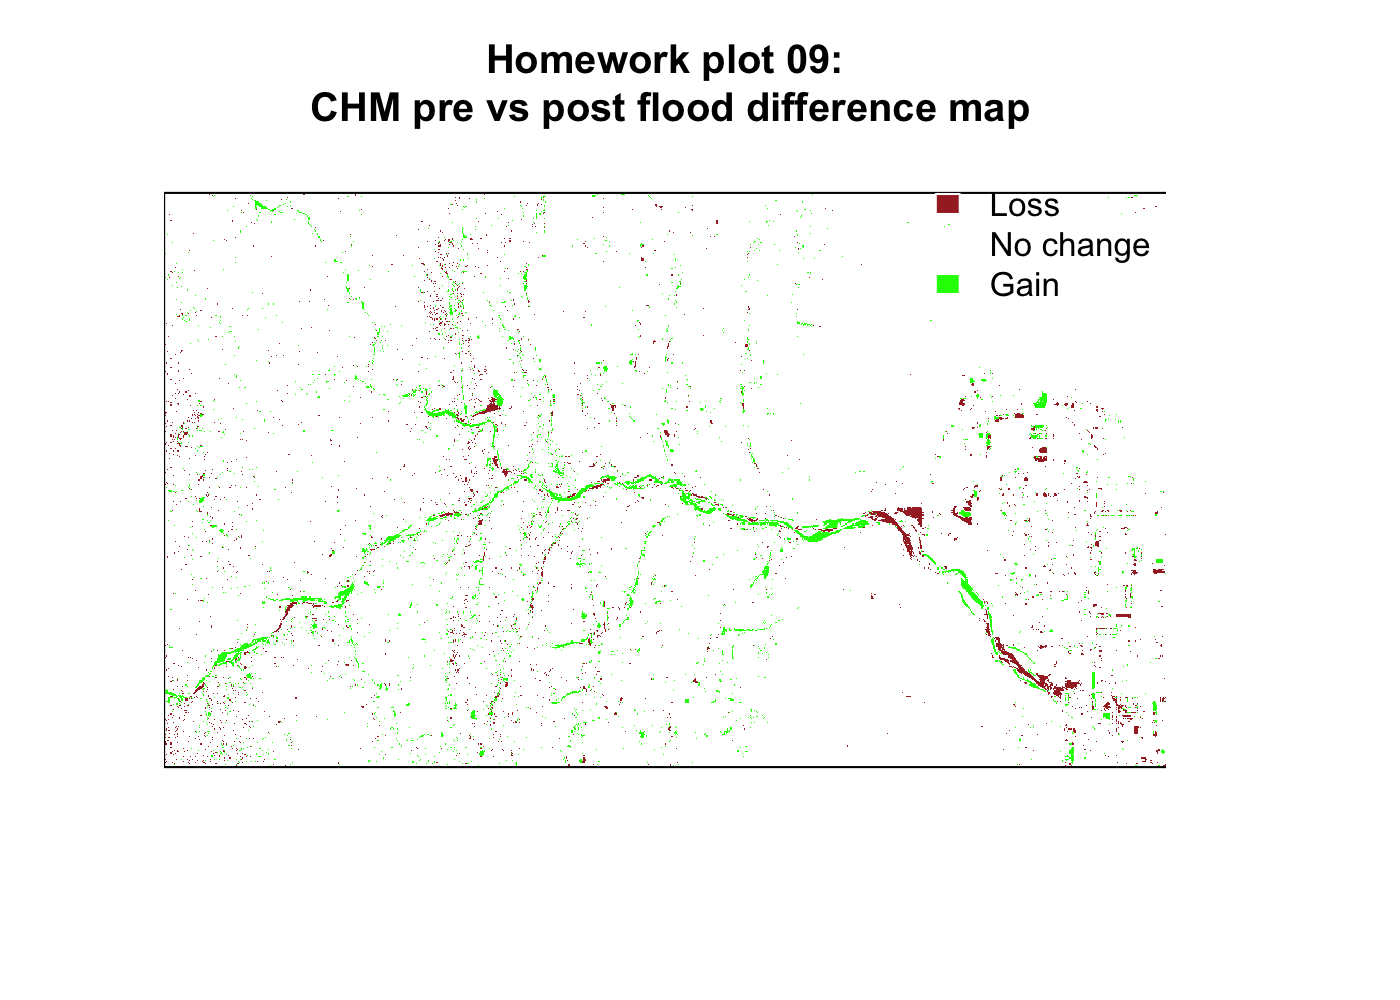
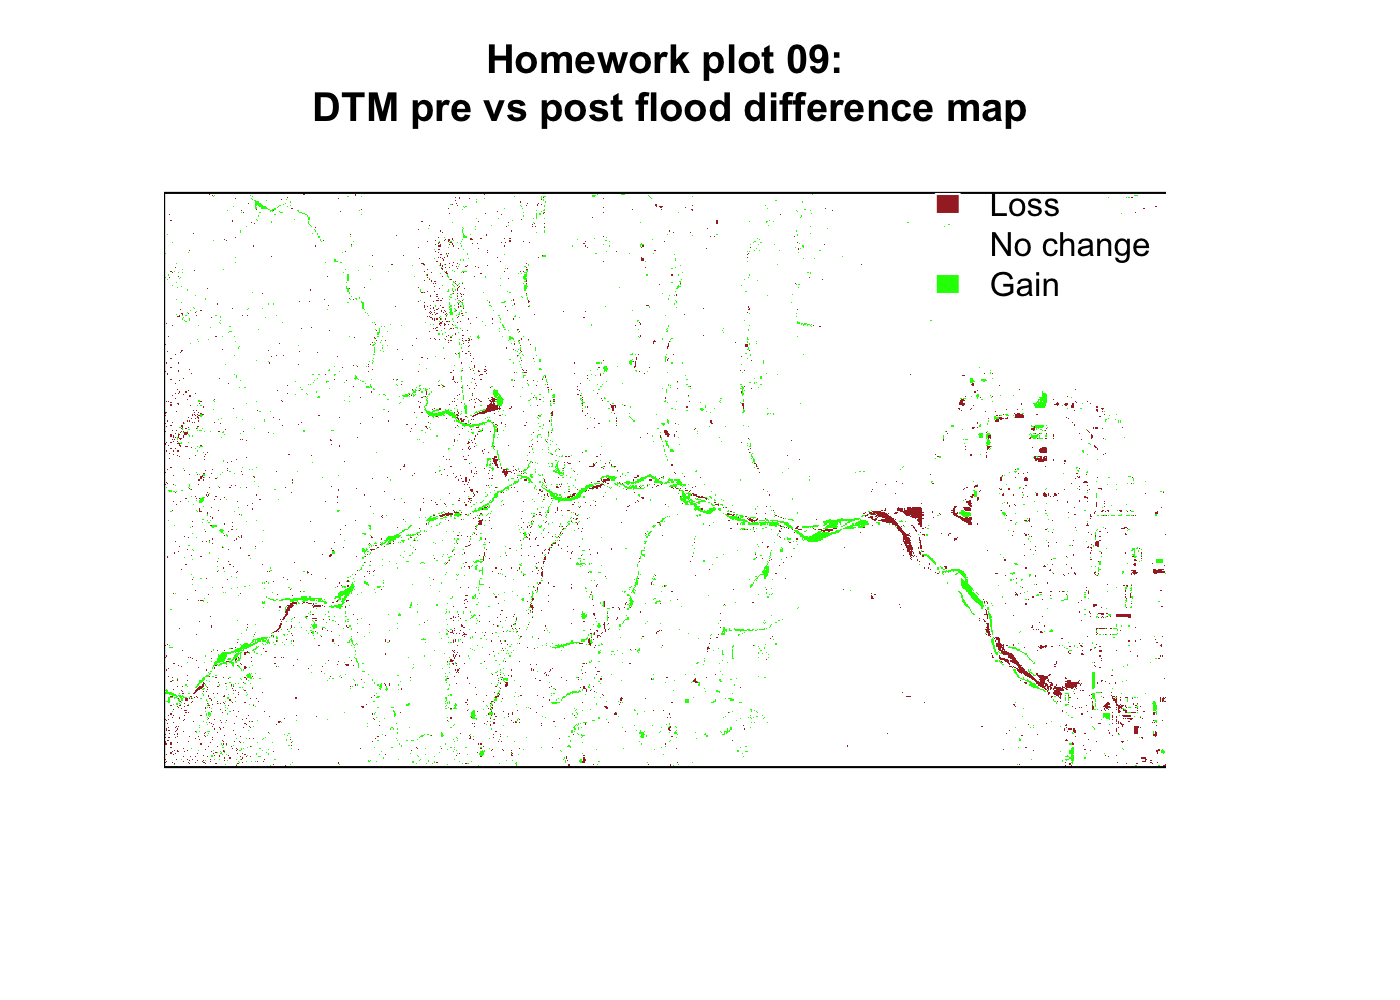
week 3 typo fixes

Changed region(s): [[0.215, 0.093, 0.7371, 0.124]]

diff --git a/_posts/courses/earth-analytics/00-course-overview/sessions/2017-01-01-week-03.md b/_posts/courses/earth-analytics/00-course-overview/sessions/2017-01-01-week-03.md
@@ -117,11 +117,11 @@ Use the `data/week_02/discharge/06730200-discharge-daily-1986-2013.csv` file to 
 * **PLOT 7: Classified pre/post CHM difference raster** Use the difference raster that you created above and the histogram as a guide to classify your difference canopy height model. Use values that make
 sense after reviewing the histogram.
 
-* **PLOT 8: pre/post DTM difference raster histogram** Create a **cropped** raster map that shows positive and negative change in the canopy height model before and after the flood. To do this:
-   * Subtract the post-flood CHM from the pre-flood CHM (**pre_flood_DTM - post_flood_DTM**).
+* **PLOT 8: pre/post DTM difference raster histogram** Create a **cropped** raster map that shows positive and negative change in the digital terrain model before and after the flood. To do this:
+   * Subtract the post-flood DTM from the pre-flood DTM (**pre_flood_DTM - post_flood_DTM**).
    * Crop the data using the `data/week_03/BLDR_LeeHill/clip-extent.shp` crop_extent shapefile.
    * Plot a histogram of the cropped data
-* **PLOT 9: Classified pre/post DTM difference raster** Use the difference raster that you created above and the histogram as a guide to classify your difference canopy height model. Use values that make
+* **PLOT 9: Classified pre/post DTM difference raster** Use the difference raster that you created above and the histogram as a guide to classify your difference digital terrain model. Use values that make
 sense after reviewing the histogram.
 
 
